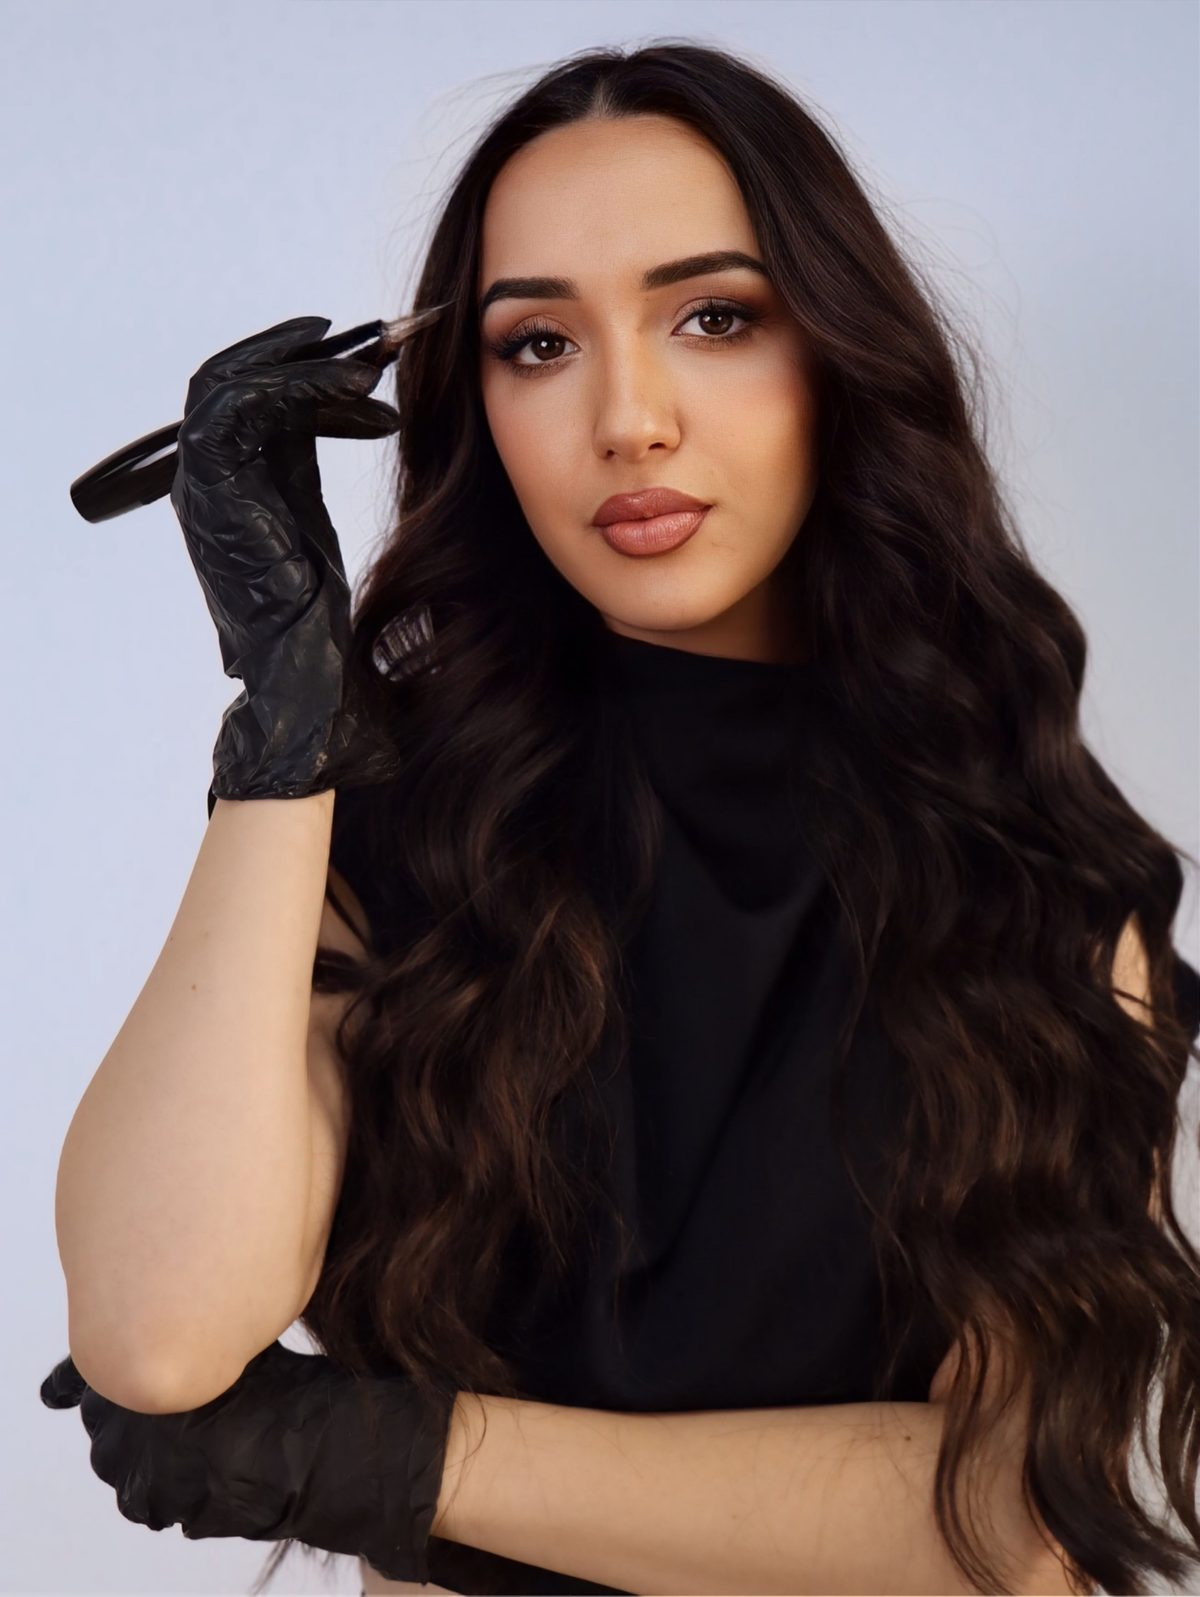
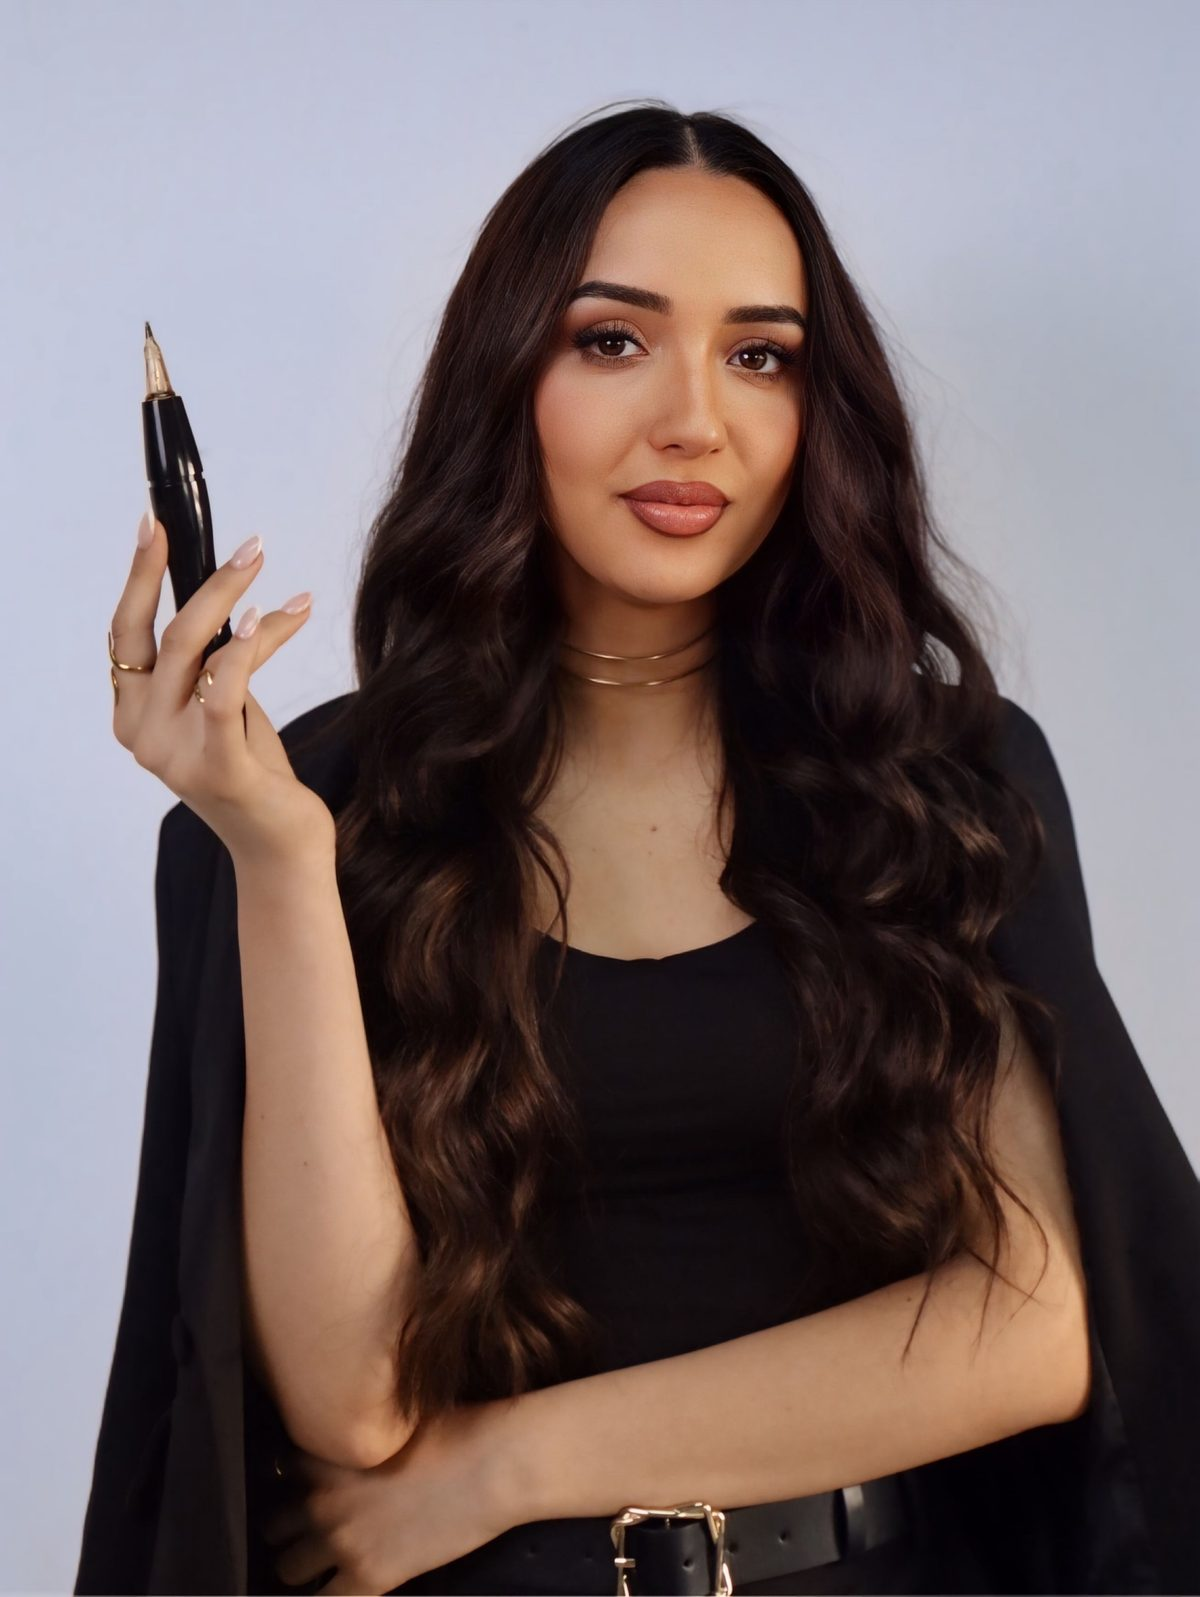
Enfocar el sitio solo en cejas y ajustar foto de "Sobre mí"
Sustituye la foto de "Sobre mí" por la indicada, quita las menciones
a labios y mirada del hero y la galería (solo se ofrece cejas por
ahora), y añade el servicio de micropigmentación + neutralización
(2h, 110€).

diff --git a/index.html b/index.html
@@ -288,9 +288,9 @@
   <section class="hero" style="border-top:none;">
     <div class="wrap hero-grid">
       <div>
-        <div class="eyebrow">Micropigmentación & estética facial</div>
-        <h1>Cejas, labios y mirada,<br>diseñados a tu medida.</h1>
-        <p class="sub">Tratamientos de micropigmentación semipermanente y estética facial, pensados para realzar tus rasgos de forma natural.</p>
+        <div class="eyebrow">Micropigmentación de cejas</div>
+        <h1>Cejas diseñadas<br>a tu medida.</h1>
+        <p class="sub">Micropigmentación de cejas semipermanente, pensada para realzar tu rostro de forma natural.</p>
         <div class="hero-actions">
           <button class="btn btn-primary" onclick="openBooking()">Reservar cita</button>
           <a href="#sobre-mi" class="btn-ghost">Conóceme →</a>
@@ -357,6 +357,16 @@
           <div class="stub-bottom">
             <span class="price">2h</span>
             <span class="price">100€</span>
+          </div>
+        </div>
+        <div class="stub">
+          <div class="stub-top">
+            <h3>Micropigmentación + neutralización</h3>
+            <p>Micropigmentación con neutralización de tonos no deseados.</p>
+          </div>
+          <div class="stub-bottom">
+            <span class="price">2h</span>
+            <span class="price">110€</span>
           </div>
         </div>
       </div>
@@ -469,9 +479,9 @@
     <div class="wrap">
       <div class="section-head"><h2>Galería</h2></div>
       <div class="gallery-grid">
-        <div class="gpiece" style="background:linear-gradient(160deg,var(--pine),var(--gold));"><span>cejas · antes y después</span></div>
-        <div class="gpiece" style="background:linear-gradient(160deg,var(--rust),var(--pine-light));"><span>labial · antes y después</span></div>
-        <div class="gpiece" style="background:linear-gradient(160deg,var(--gold),var(--rust-deep));"><span>tratamiento facial</span></div>
+        <div class="gpiece" style="background:linear-gradient(160deg,var(--pine),var(--gold));"><span>efecto polvo · antes y después</span></div>
+        <div class="gpiece" style="background:linear-gradient(160deg,var(--rust),var(--pine-light));"><span>híbrida · antes y después</span></div>
+        <div class="gpiece" style="background:linear-gradient(160deg,var(--gold),var(--rust-deep));"><span>pelo a pelo · antes y después</span></div>
         <div class="gpiece" style="background:linear-gradient(160deg,var(--pine-light),var(--ink));"><span>estudio</span></div>
       </div>
     </div>
